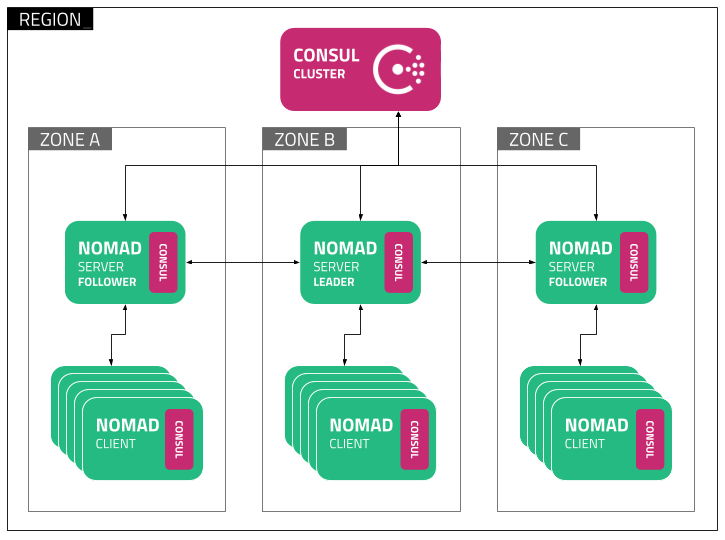
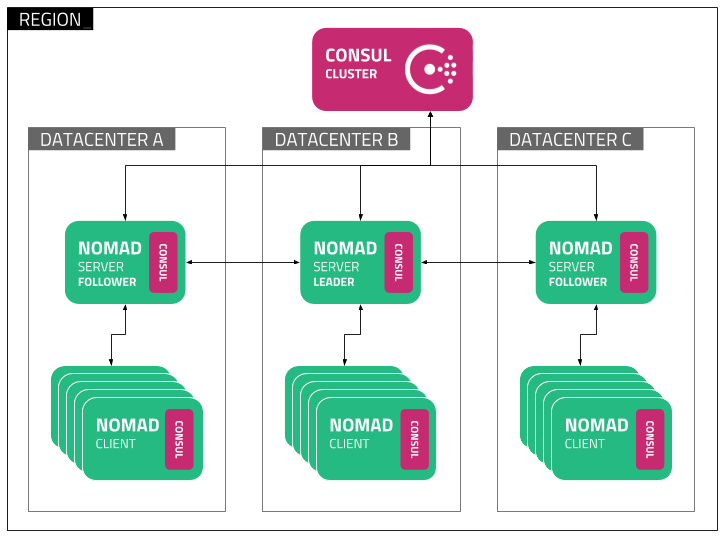
Edits following review
- Update image text from "zone" to "datacenter" to match Nomad terminology
- Clean up text based on Preetha's feedback

diff --git a/website/source/guides/operations/reference-architecture.html.md b/website/source/guides/operations/reference-architecture.html.md
@@ -44,7 +44,7 @@ A single Nomad cluster is recommended for applications deployed in the same regi
 
 Each cluster is expected to have either three or five servers. This strikes a balance between availability in the case of failure and performance, as [Raft](https://raft.github.io/) consensus gets progressively slower as more servers are added.
 
-The time taken for gossip to converge increases as more client nodes are added. Similarly, the time taken by a new server to join an existing large cluster may increase as they are replicated to the new server's log.
+The time taken by a new server to join an existing large cluster may increase as the size of the cluster increases.
 
 #### Reference Diagram
 
@@ -98,8 +98,6 @@ Nomad clients can be setup with specialized workloads as well. For example, if w
 ## High Availability
 
 A Nomad server cluster is the highly-available unit of deployment within a single datacenter. A recommended approach is to deploy a three or five node Nomad server cluster. With this configuration, during a Nomad server outage, failover is handled immediately without human intervention.
-
-High-availability and data locality across datacenters requires Nomad Enterprise.
 
 When setting up high availability across regions, multiple Nomad server clusters are deployed and connected via WAN gossip. Nomad clusters in regions are fully independent from each other and do not share jobs, clients, or state. Data residing in a single region-specific cluster is not replicated to other clusters in other regions.
 
